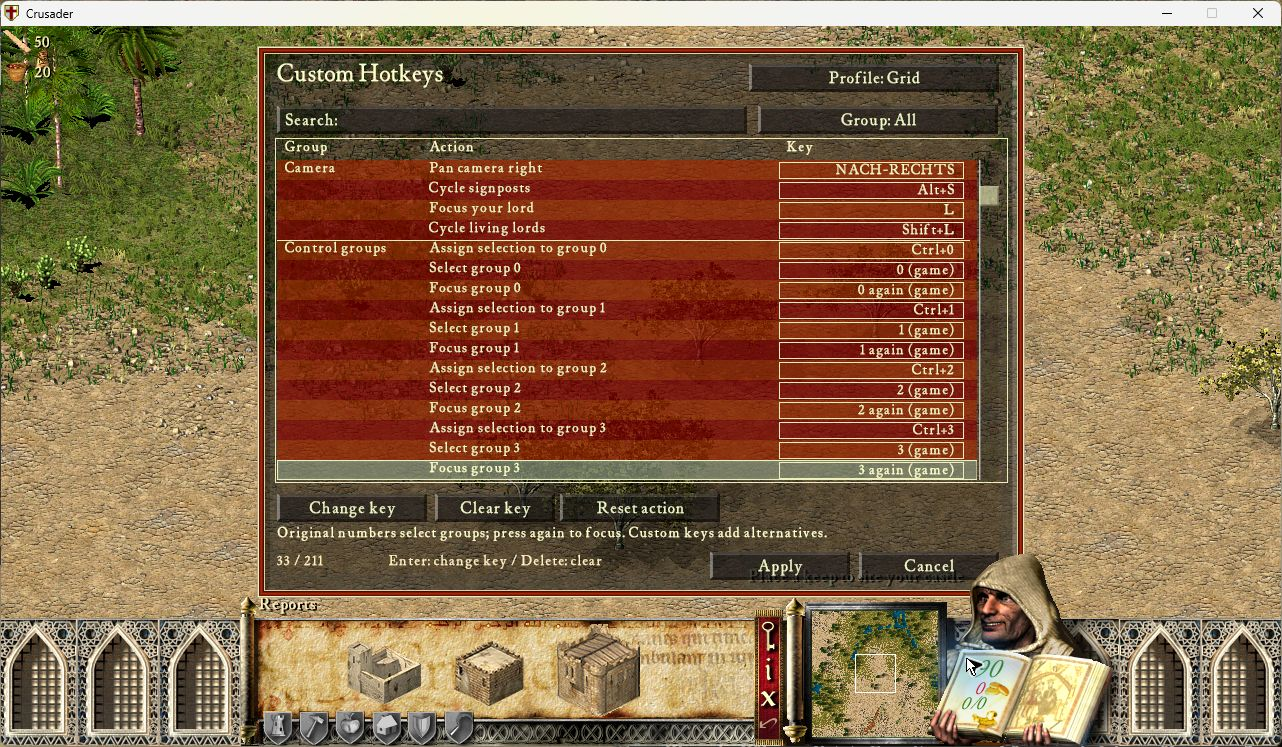
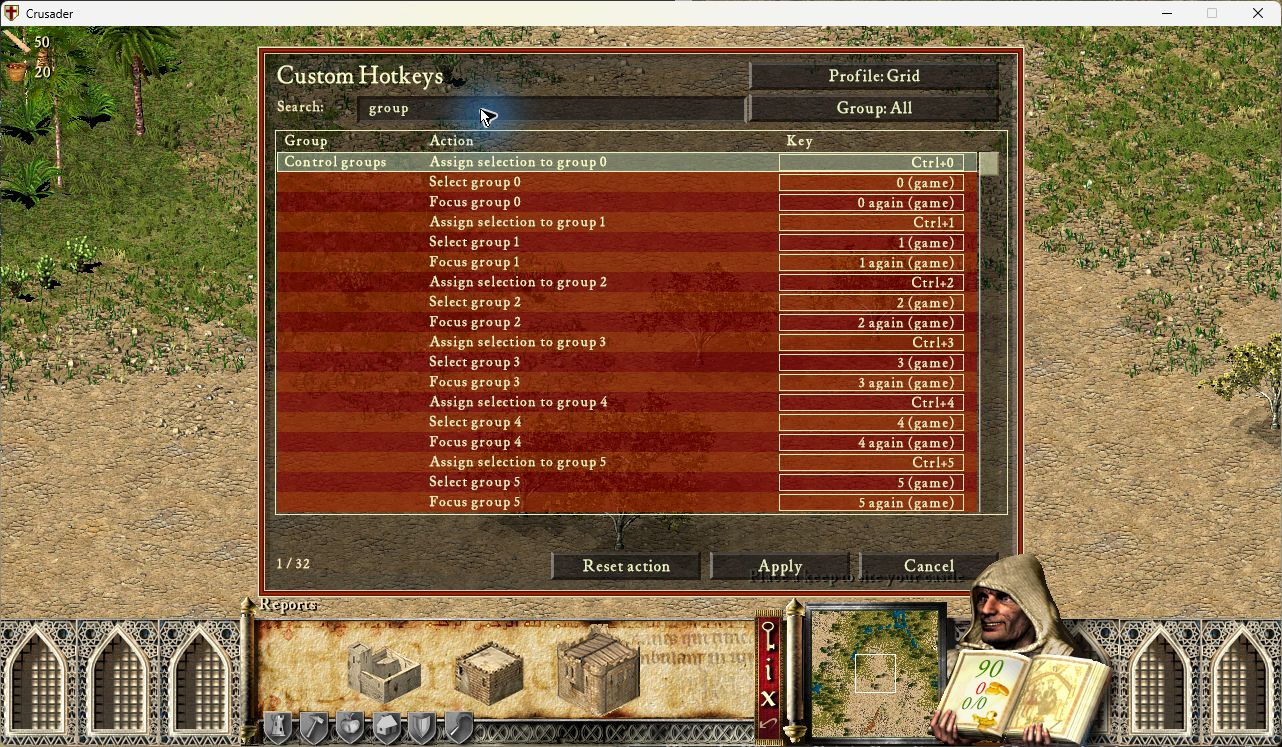
Verify compact native editor and refresh gameplay screenshots

diff --git a/docs/editor-0.1.1-evidence.md b/docs/editor-0.1.1-evidence.md
@@ -1,5 +1,37 @@
 # Native editor check for 0.1.1
 
+## Compact layout follow-up
+
+Frozen `6a952f9c4d61e09aa1432f7f71744524fff38ec8`, ZIP87,776bytes,
[1 lines of base64/hex data omitted]
+PID7852, same executable/dependencies/configuration/language/resolution as below.
+The revised editor shows18 rows, aligned equal-width Profile/Group buttons,
+a recessed search field and one footer row for counter/Reset/Apply/Cancel.
+No Change/Clear buttons, Enter/Delete hint or selection-explanation line remains.
+Key glyphs are one further pixel lower; other non-button labels are two lower.
+The ordinary button captions retain their original native position.
+
+F12 opened the editor in A Mighty Oasis. Clicking Search showed the caret;
+typing `group` filtered live through119/50/33/33/32 results. Enter accepted
+without starting capture; the next Enter started capture for assignment0.
+Ctrl+F11 displayed correctly, Delete cleared it, and the relocated Reset action
+restored Ctrl+0. Cancel closed without saving. The viewport showed no camera
+change during those search/edit steps; no native command-count claim is inferred.
+Some immediate captures caught partial painting; fresh observations showed all
+rows intact. Both current screenshots below are stable, unedited PID7852 captures.
+
+474 component cases passed19.15s (Lua5.4/LuaJIT), including live search, focus,
+Enter/Tab/Escape, clearing and reset. Native search Escape/Tab and all supported
+languages/minimum resolution are not established by this bounded visual run.
+Error log header-only. Normal Alt+F4 exit/process absence verified; desktop
+released05:12:33 CEST12 September2026, baseline configuration restored. Saved
+profiles unchanged. Task receipts `compact-011-build.json`, `compact-7852*.log`.
+
+An earlier alignment-only PID27508 run on d981d05 also checked the new text
+baselines; it was closed and released05:03:18 before this layout implementation.
+
+## Earlier capture and persistence check
+
 Frozen source `21dab2a79b84e0aaffb2c770681281675969f1d4`, ZIP88,172bytes,
[1 lines of base64/hex data omitted]
 PID13032 on12 September2026, SHC1.41 executable SHA256
